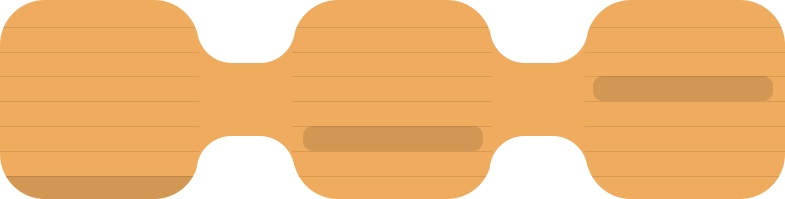
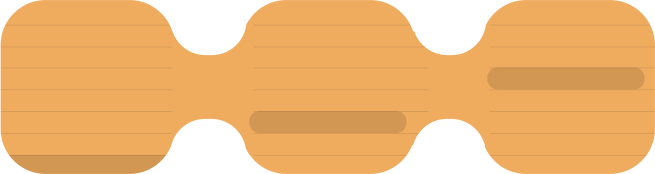
Iterated on track UI

diff --git a/Musical madlibs/Musical madlibs.js b/Musical madlibs/Musical madlibs.js
@@ -3,12 +3,14 @@ if (Layer.root.width != 1024) {
 }
 
 
-var firstTrackSlotX = 146
-var trackCenterY = 195
-var trackSlotWidth = 146
-var trackLength = 5
+var firstTrackSlotX = 31
+var trackCenterY = 107
+var trackSlotWidth = 120
 
-var dotBaseline = trackCenterY - 150
+var openTrackLength = 5
+var totalTrackLength = 8
+
+var dotBaseline = trackCenterY - 110
 var slotDots = []
 
 Layer.root.image = new Image({name: "bg"})
@@ -18,7 +20,7 @@ var beatIndex = 0
 
 var trackEntries = new Map()
 
-var soundEnabled = false
+var soundEnabled = true
 if (!soundEnabled) {
 	Sound.prototype.play = function() {}
 }
@@ -26,29 +28,24 @@ if (!soundEnabled) {
 // Using an action behavior instead of a heartbeat because heartbeats still don't dispose properly on reload. :/
 Layer.root.behaviors = [
 	new ActionBehavior({handler: function() {
-		var totalPhraseLength = 8
 		var beatLength = 0.3
-		var dotAnimationLength = 0.1
+		var dotAnimationLength = 0.18
 		var currentTimestamp = Timestamp.currentTimestamp()
 
 		if (currentTimestamp - lastPlayTime > beatLength - dotAnimationLength) {
-			if (beatIndex < trackLength) {
-				var currentDot = slotDots[beatIndex]
-				currentDot.animators.scale.target = new Point({x: 1, y: 1})
-				currentDot.animators.y.target = dotBaseline + 30
-				currentDot.animators.alpha.target = 1
-			}
+			var currentDot = slotDots[beatIndex]
+			currentDot.animators.scale.target = new Point({x: 1, y: 1})
+			currentDot.animators.y.target = dotBaseline + 30
+			currentDot.animators.alpha.target = 1
 
 			var lastBeatIndex = beatIndex - 1
 			if (lastBeatIndex < 0) {
-				lastBeatIndex = totalPhraseLength - 1
+				lastBeatIndex = totalTrackLength - 1
 			}
-			if (lastBeatIndex < trackLength) {
-				var currentDot = slotDots[lastBeatIndex]
-				currentDot.animators.scale.target = new Point({x: 0, y: 0})
-				currentDot.animators.y.target = dotBaseline
-				currentDot.animators.alpha.target = 0
-			}
+			var lastDot = slotDots[lastBeatIndex]
+			lastDot.animators.scale.target = new Point({x: 0, y: 0})
+			lastDot.animators.y.target = dotBaseline
+			lastDot.animators.alpha.target = 0
 		}
 		if (currentTimestamp - lastPlayTime > beatLength) {
 			var foundSound = false
@@ -62,12 +59,12 @@ Layer.root.behaviors = [
 				}
 			})
 			if (!foundSound) {
-				var sound = new Sound({name: beatIndex < trackLength ? "ta" : "tee"})
+				var sound = new Sound({name: beatIndex < openTrackLength ? "ta" : "tee"})
 				sound.play()
 			}
 
 			lastPlayTime += beatLength
-			beatIndex = (beatIndex + 1) % totalPhraseLength
+			beatIndex = (beatIndex + 1) % totalTrackLength
 		}
 	}})
 ]
@@ -82,7 +79,7 @@ twoSnippet.layer.y += 200
 makeSlotDots()
 
 function makeSlotDots() {
-	for (var slotIndex = 0; slotIndex < trackLength; slotIndex++) {
+	for (var slotIndex = 0; slotIndex < totalTrackLength; slotIndex++) {
 		var dot = new Layer()
 		dot.backgroundColor = Color.gray
 		dot.width = dot.height = 20
@@ -91,6 +88,11 @@ function makeSlotDots() {
 		dot.alpha = 0
 		dot.y = trackCenterY - 150
 		dot.x = firstTrackSlotX + trackSlotWidth * (slotIndex + 0.5)
+
+		if (slotIndex >= openTrackLength) {
+			dot.border = new Border({width: 2, color: dot.backgroundColor})
+			dot.backgroundColor = Color.clear
+		}
 
 		dot.animators.scale.springSpeed = 60
 		dot.animators.scale.springBounciness = 0
@@ -113,6 +115,7 @@ function makeSnippet(name, size, samples) {
 	layer.animators.position.springBounciness = 3
 
 	layer.touchBeganHandler = function(sequence) {
+		trackEntries.delete(snippet)
 		highestSnippetZ++
 		layer.zPosition = highestSnippetZ
 		layer.animators.scale.target = new Point({x: 1.05, y: 1.05})
@@ -128,19 +131,10 @@ function makeSnippet(name, size, samples) {
 			if (canPutSnippetAtSlot(snippet, slot)) {
 				trackEntries.set(snippet, slot)
 			} else {
-				trackEntries.delete(snippet)
 				var snippetCenter = snippetOrigin.y + layer.height / 2.0
-				var newOriginY = null
-				if (snippetCenter > trackCenterY) {
-					newOriginY = trackCenterY + 65
-				} else {
-					newOriginY = trackCenterY - 65 - layer.height
-				}
-				newOrigin = new Point({x: snippetOrigin.x, y: newOriginY})
+				newOrigin = new Point({x: snippetOrigin.x, y: trackCenterY + layer.height * 0.75})
 			}
 			layer.animators.position.target = new Point({x: newOrigin.x + layer.width / 2.0, y: newOrigin.y + layer.height / 2.0})
-		} else {
-			trackEntries.delete(snippet)
 		}
 		layer.animators.scale.target = new Point({x: 1.0, y: 1.0})
 	}
@@ -150,6 +144,9 @@ function makeSnippet(name, size, samples) {
 
 function canPutSnippetAtSlot(snippet, slot) {
 	var result = true
+	if (slot + snippet.blockCount > openTrackLength) {
+		return false
+	}
 	trackEntries.forEach(function(value, key) {
 		if (key === snippet) {
 			return
@@ -166,11 +163,11 @@ function offsetWithinTrackSlot(snippetWidth, blockCount) {
 }
 
 function trackSlotForSnippetOrigin(snippetOrigin, snippetSize, blockCount) {
-	if (snippetOrigin.y > 60 && (snippetOrigin.y + snippetSize.height) < 330 && snippetOrigin.x > 130 && (snippetOrigin.x + snippetSize.width) < 900) {
+	if (snippetOrigin.y > (trackCenterY - snippetSize.height * 1.25) && (snippetOrigin.y + snippetSize.height) < (trackCenterY + snippetSize.height * 1.25)) {
 		var shiftWithinSlot = offsetWithinTrackSlot(snippetSize.width, blockCount)
 		var distanceFromTrackStart = Math.max(snippetOrigin.x - firstTrackSlotX, 0)
 		var trackSlot = Math.round((distanceFromTrackStart - shiftWithinSlot) / trackSlotWidth)
-		if (trackSlot >= 0 && trackSlot <= (trackLength - blockCount)) {
+		if (trackSlot >= 0 && trackSlot <= (totalTrackLength - blockCount)) {
 			return trackSlot
 		} else {
 			return undefined
